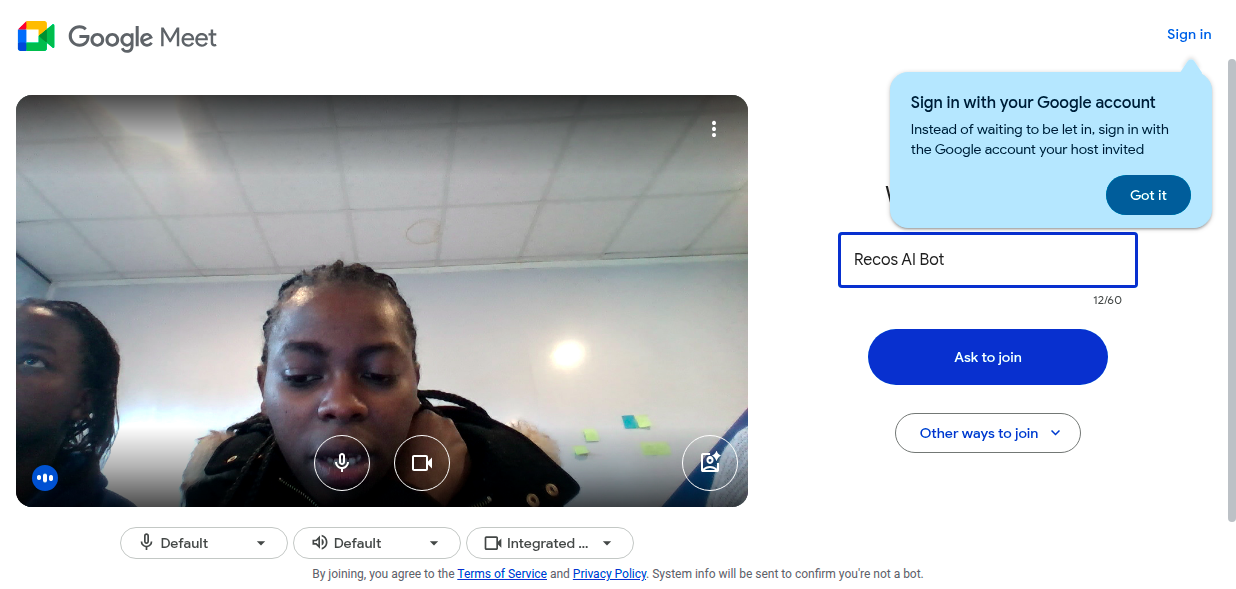
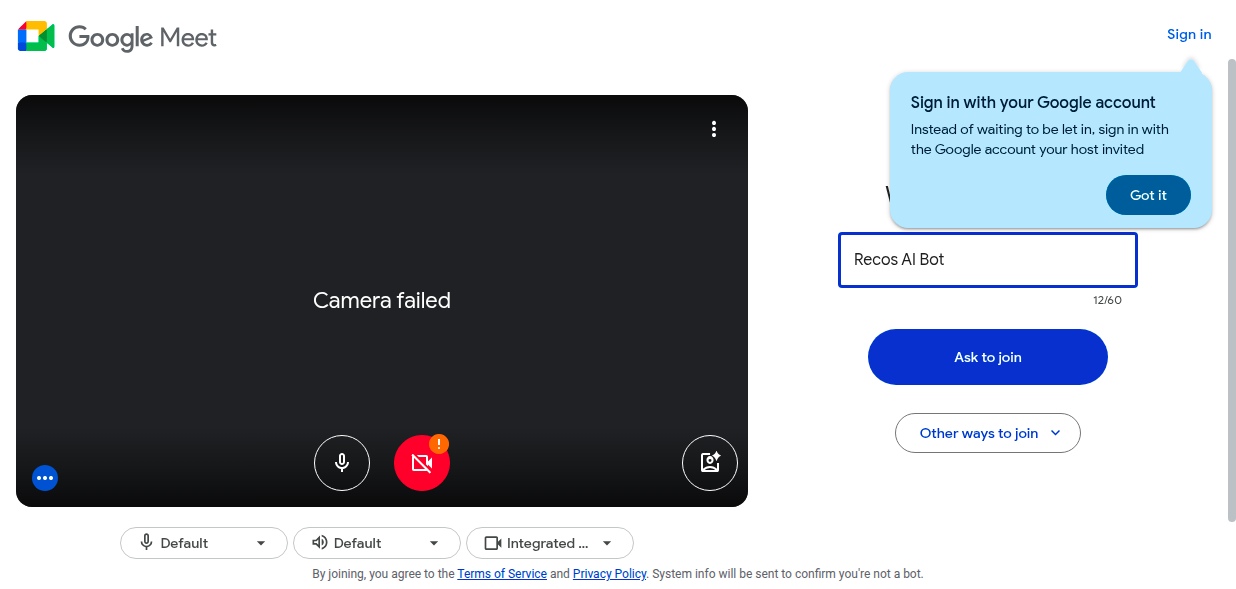
last updates

diff --git a/gmeet.py b/gmeet.py
@@ -79,6 +79,8 @@ def start_bot():
         data = request.json
         meet_link = data.get('meet_link') or data.get('meetLink')
         duration = data.get('duration', 60)
+        token = data.get('token')
+        interview_id = data.get('interview_id')
 
         if not meet_link:
             return jsonify({
@@ -95,7 +97,7 @@ def start_bot():
 
         def run_bot():
             try:
-                asyncio.run(join_meet())
+                asyncio.run(join_meet(meet_link, duration, token, interview_id))
             except Exception as e:
                 print(f"Error in bot thread: {e}")
                 bot_state['status'] = 'error'
@@ -289,7 +291,6 @@ class RealtimeAudioStreamer:
             self.is_streaming = False
             return
 
-        # Always use system audio capture in production
         self._setup_system_audio_capture()
 
     def _setup_system_audio_capture(self):
@@ -297,15 +298,12 @@ class RealtimeAudioStreamer:
         print("Setting up system audio capture...")
         
         try:
-            # Create virtual audio sink for capturing system audio
             self._setup_virtual_audio_sink()
             
-            # Use the virtual sink monitor to capture all system audio
             audio_source = "virtual_speaker.monitor"
             
             print(f"Capturing system audio from: {audio_source}")
             
-            # Use parec to capture from the virtual sink monitor
             parec_command = [
                 "parec",
                 "--format=s16le",
@@ -315,7 +313,6 @@ class RealtimeAudioStreamer:
                 "--latency=1"
             ]
 
-            # Use sox to process the audio
             sox_command = [
                 "sox",
                 "-q",
@@ -324,7 +321,7 @@ class RealtimeAudioStreamer:
                 "-c", "1",
                 "-b", "16",
                 "-e", "signed-integer",
-                "-",  # stdin from parec
+                "-",  
                 "-t", "raw",
                 "-"
             ]
@@ -344,7 +341,6 @@ class RealtimeAudioStreamer:
             
         except Exception as e:
             print(f"System audio capture error: {e}")
-            # Fallback to default monitor
             self._fallback_audio_capture()
 
     def _setup_virtual_audio_sink(self):
@@ -352,7 +348,6 @@ class RealtimeAudioStreamer:
         try:
             print("Setting up virtual audio sink...")
             
-            # Check if virtual sink already exists
             result = subprocess.run(
                 ["pactl", "list", "short", "sinks"],
                 capture_output=True, text=True, check=True
@@ -360,14 +355,12 @@ class RealtimeAudioStreamer:
             
             if "virtual_speaker" not in result.stdout:
                 print("Creating virtual audio sink...")
-                # Create null sink (virtual speaker)
                 subprocess.run([
                     "pactl", "load-module", "module-null-sink", 
                     "sink_name=virtual_speaker", 
                     "sink_properties=device.description=Virtual-Speaker-for-Recording"
                 ], check=True, stdout=subprocess.DEVNULL, stderr=subprocess.DEVNULL)
                 
-                # Create loopback from default output to virtual sink
                 subprocess.run([
                     "pactl", "load-module", "module-loopback", 
                     "source=@DEFAULT_MONITOR@", 
@@ -379,7 +372,6 @@ class RealtimeAudioStreamer:
             else:
                 print("Virtual audio sink already exists")
                 
-            # List available audio sources for debugging
             print("Available audio sources:")
             subprocess.run(["pactl", "list", "short", "sources"], check=False)
                 
@@ -391,7 +383,6 @@ class RealtimeAudioStreamer:
         try:
             print("Using fallback system audio capture...")
             
-            # Use default system monitor directly
             audio_source = "@DEFAULT_MONITOR@"
             
             parec_command = [
@@ -602,19 +593,19 @@ async def google_sign_in(email, password, driver):
     
     email_field = driver.find_element(By.NAME, "identifier")
     email_field.send_keys(email)
-    driver.save_screenshot("screenshots/email.png")
-    sleep(2)
+    # driver.save_screenshot("screenshots/email.png")
+    sleep(1)
     
     driver.find_element(By.ID, "identifierNext").click()
-    sleep(3)
-    driver.save_screenshot("screenshots/password.png")
+    sleep(2)
+    # driver.save_screenshot("screenshots/password.png")
     
     password_field = driver.find_element(By.NAME, "Passwd")
     password_field.click()
     password_field.send_keys(password)
     password_field.send_keys(Keys.RETURN)
-    sleep(5)
-    driver.save_screenshot("screenshots/signed_in.png")
+    sleep(3)
+    # driver.save_screenshot("screenshots/signed_in.png")
 
 def get_chrome_version():
     """Try to detect the installed Chrome version"""
@@ -649,12 +640,12 @@ def cleanup_chrome_processes():
     except Exception as e:
         print(f"Error cleaning up Chrome processes: {e}")
 
-async def join_meet():
+async def join_meet(meet_link, duration, token, interview_id):
     bot_state['status'] = 'running'
 
-    cleanup_chrome_processes()
+    # cleanup_chrome_processes()
 
-    meet_link = os.getenv("GMEET_LINK", "https://meet.google.com/mhj-bcdx-bgu")
+
     backend_url = os.getenv("BACKEND_URL", "http://localhost:3000")
     
     print(f"Starting recorder for {meet_link}")
@@ -775,7 +766,7 @@ async def join_meet():
 
     print(f"Navigating to meet link: {meet_link}")
     driver.get(meet_link)
-    sleep(5)
+    sleep(3)
 
     try:
         driver.execute_cdp_cmd(
@@ -807,48 +798,48 @@ async def join_meet():
     except:
         print("No popup")
 
-    print("Disable microphone")
-    sleep(5)
+    # print("Disable microphone")
+    # sleep(3)
 
-    missing_mic = False
+    # missing_mic = False
 
-    try:
-        print("Try to dismiss missing mic")
-        driver.find_element(By.CLASS_NAME, "VfPpkd-vQzf8d").find_element(By.XPATH, "..")
-        sleep(1)
-        missing_mic = True
-    except:
-        pass
+    # try:
+    #     print("Try to dismiss missing mic")
+    #     driver.find_element(By.CLASS_NAME, "VfPpkd-vQzf8d").find_element(By.XPATH, "..")
+    #     sleep(1)
+    #     missing_mic = True
+    # except:
+    #     pass
 
-    try:
-        print("Allow Microphone")
-        driver.find_element(
-            By.XPATH,
-            "/html/body/div/div[3]/div[2]/div/div/div/div/div[2]/div/div[1]/button",
-        ).click()
-        sleep(1)
-    except:
-        print("No Allow Microphone popup")
+    # try:
+    #     print("Allow Microphone")
+    #     driver.find_element(
+    #         By.XPATH,
+    #         "/html/body/div/div[3]/div[2]/div/div/div/div/div[2]/div/div[1]/button",
+    #     ).click()
+    #     sleep(1)
+    # except:
+    #     print("No Allow Microphone popup")
 
-    try:
-        print("Try to disable microphone")
-        driver.find_element(
-            By.XPATH,
-            '//*[@id="yDmH0d"]/c-wiz/div/div/div[14]/div[3]/div/div[2]/div[4]/div/div/div[1]/div[1]/div/div[6]/div[1]/div/div',
-        ).click()
-    except:
-        print("No microphone to disable")
+    # try:
+    #     print("Try to disable microphone")
+    #     driver.find_element(
+    #         By.XPATH,
+    #         '//*[@id="yDmH0d"]/c-wiz/div/div/div[14]/div[3]/div/div[2]/div[4]/div/div/div[1]/div[1]/div/div[6]/div[1]/div/div',
+    #     ).click()
+    # except:
+    #     print("No microphone to disable")
 
     sleep(1)
 
-    wait = WebDriverWait(driver, 10)
-    try:
-        disable_camera_button = wait.until(
-            EC.element_to_be_clickable((By.XPATH, '//*[@id="yDmH0d"]/c-wiz/div/div/div[14]/div[3]/div/div[2]/div[4]/div/div/div[1]/div[1]/div/div[6]/div[2]/div'))
-        )
-        disable_camera_button.click()
-    except TimeoutException:
-        print("Disable camera button not found or not clickable")
+    # wait = WebDriverWait(driver, 10)
+    # try:
+    #     disable_camera_button = wait.until(
+    #         EC.element_to_be_clickable((By.XPATH, '//*[@id="yDmH0d"]/c-wiz/div/div/div[14]/div[3]/div/div[2]/div[4]/div/div/div[1]/div[1]/div/div[6]/div[2]/div'))
+    #     )
+    #     disable_camera_button.click()
+    # except TimeoutException:
+    #     print("Disable camera button not found or not clickable")
     
     try:
         print("Try to set name")
@@ -965,7 +956,7 @@ async def join_meet():
         return
 
     print("Waiting for meeting to load...")
-    sleep(10)
+    sleep(5)
 
     try:
         wait = WebDriverWait(driver, 5)
@@ -1004,7 +995,7 @@ async def join_meet():
         cleanup_bot()
         return
     
-    duration_minutes = int(os.getenv("DURATION_IN_MINUTES", "60"))  
+    duration_minutes = duration  
     duration_seconds = duration_minutes * 60
 
     audio_streamer = RealtimeAudioStreamer(backend_url)

diff --git a/index.py b/index.py
@@ -1118,10 +1118,3 @@ def main(meet_link, duration, server, production):
 if __name__ == "__main__":
     main()
 
-
-
-
-
-
-
-

diff --git a/README.md b/README.md
@@ -13,13 +13,13 @@ docker build -t gmeet -f Dockerfile .
 ## Usage
 
 ```
-docker run -it \
+<docker run -it \
     -e GMEET_LINK=https://meet.google.com/my-gmeet-id \
-    -e GMAIL_USER_EMAIL=myuser1234@gmail.com \
-    -e GMAIL_USER_PASSWORD=my_gmail_password \
-    -e DURATION_IN_MINUTES=1 \ #duration of the meeting to record
-    -e MAX_WAIT_TIME_IN_MINUTES=2 \ #max wait time in the lobby
-    -v $PWD/recordings:/app/recordings \ # local storage for the recording
-    -v $PWD/screenshots:/app/screenshots \ # local storage for intermediate bot screenshots
-    gmeet
+    -e GMAIL_USER_EMAIL=linmercynj@gmail.com \
+    -e GMAIL_USER_PASSWORD=tYpiWWz!!68r$BM \
+    -e DURATION_IN_MINUTES=1 \ 
+    -e MAX_WAIT_TIME_IN_MINUTES=2 \ 
+    -v $PWD/recordings:/app/recordings \ 
+    -v $PWD/screenshots:/app/screenshots \ 
+    gmeet>
 ```
